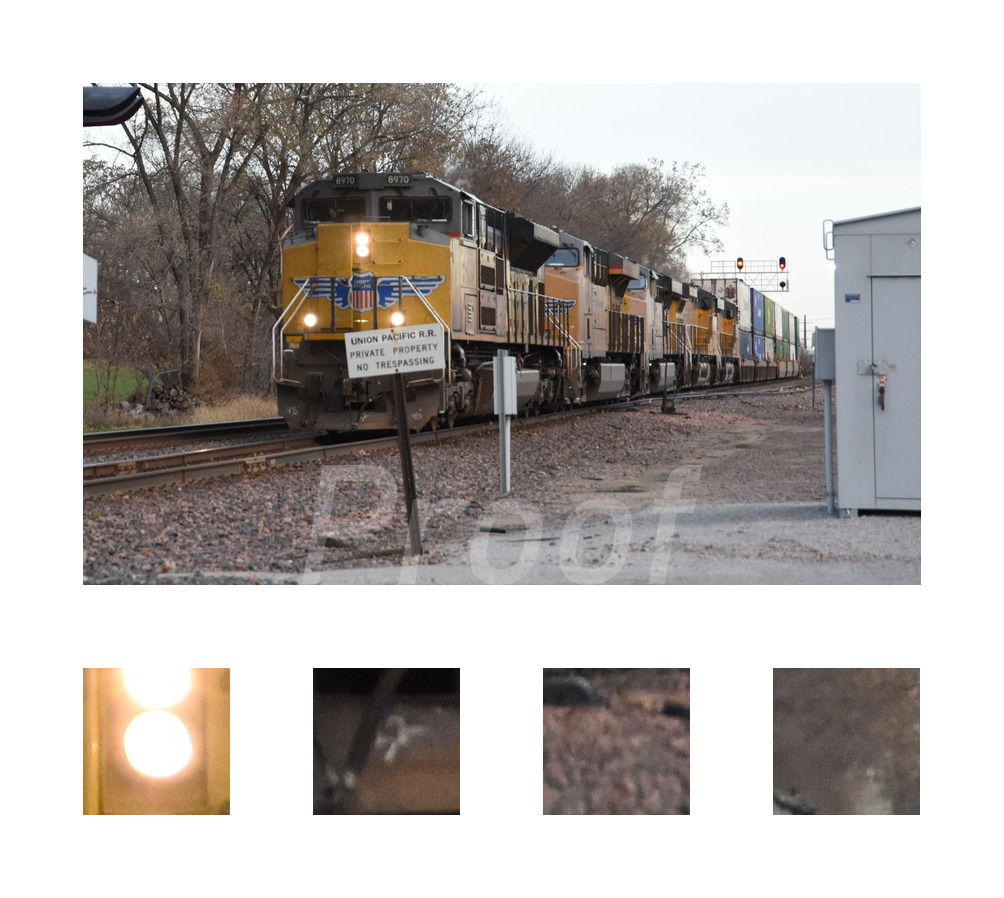
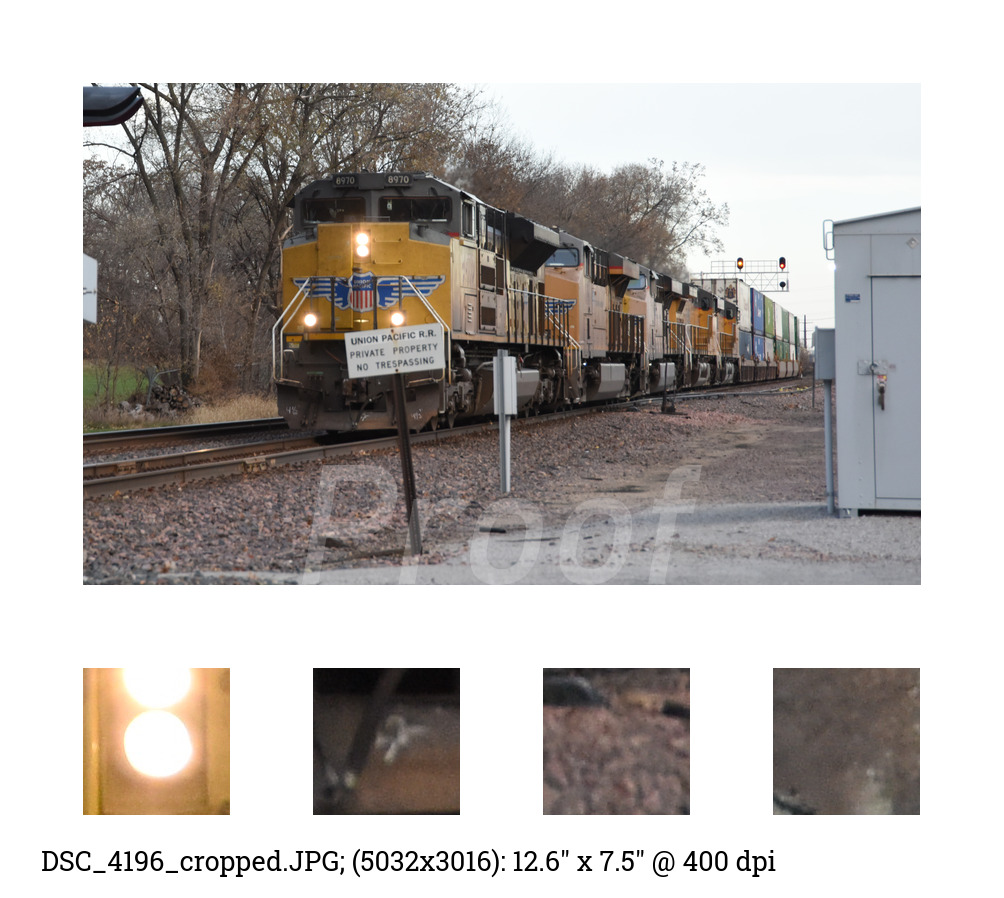
added recommended enlargement

Changed region(s): [[0.0309, 0.9354, 0.7719, 0.9978]]

diff --git a/main.py b/main.py
@@ -1,6 +1,7 @@
+import os
 from wand.image import Image
 from wand.color import Color
-import os
+from wand.drawing import Drawing
 
 SOURCE_DIR = "./source/"
 DEST_DIR = "./dest/"
@@ -16,6 +17,7 @@ print(len(files), files)
 
 for img_path in files:
     with Image(filename=SOURCE_DIR + img_path) as img:
+        # rotate image upright
         try:
             rotate = img.metadata["exif:Orientation"]
             angle = {"6": 90, "8": -90, "3": 180, "5": 90, "7": -90, "4": 180 }.get(rotate[0], 0)
@@ -31,10 +33,29 @@ for img_path in files:
             print("can't rotate")
             angle = 0
             
-        if img.height > img.width:
-                img.rotate(90)
-                angle -= 90
+        # read camera information
+        #print(list(img.metadata))
+        
+        iso = 0
+        
+        if "exif:PhotographicSensitivity" in img.metadata:
+            iso = int("".join(filter(lambda i:i.isnumeric(), img.metadata["exif:PhotographicSensitivity"].split(" ")[0])))
+        
+        dpi = 300 if iso < 1200 else 400
             
+        desc_list = [img_path]
+        
+        desc_list.append("(%dx%d): %.1f\" x %.1f\" @ %d dpi" % (img.width, img.height, img.width / dpi, img.height / dpi, dpi))
+
+        #if iso > 0:
+        #    desc_list.append("ISO: %d" % iso)
+
+        # if it's portrait, put the samples on the right
+        if img.height > img.width:
+            img.rotate(90)
+            angle -= 90
+        
+        # generate size and quantity for preview and samples
         scale = max(img.width, img.height) // LONG_EDGE + 1
         
         scaled_width, scaled_height = img.width // scale, img.height // scale
@@ -46,16 +67,21 @@ for img_path in files:
         
         with Image(width=scaled_width + 2 * MARGIN, height=scaled_height + 3 * MARGIN + sample_size, background=Color('white')) as proof:
             with img.clone() as small_img:
+                # scale, if needed
                 if scale > 1:
                     small_img.resize(scaled_width, scaled_height)
-                    
-                with Image(filename='watermark.png') as watermark:
-                    small_img.composite(watermark, left=(small_img.width - watermark.width) // 2, top=small_img.height - watermark.height, operator='over')
+                
+                # add the watermark
+                if os.path.exists("watermark.png"):
+                    with Image(filename='watermark.png') as watermark:
+                        small_img.composite(watermark, left=(small_img.width - watermark.width) // 2, top=small_img.height - watermark.height, operator='over')
                 
                 proof.composite(small_img, left=MARGIN, top=MARGIN, operator='over')
-               
+            
+            # select samples from original image
             for sample in range(sample_count):
                 with img.clone() as sample_img:
+                    # center samples on rule of thirds
                     sample_x = max(0, (sample // 2 % 2 + 1) * img.width // 3 - sample_size // 2)
                     sample_y = max(0, ((sample + 1) // 2 % 2 + 1) * img.height // 3 - sample_size // 2)
                     
@@ -64,6 +90,12 @@ for img_path in files:
                     proof.composite(sample_img, left=MARGIN + sample * (MARGIN + sample_size), top=2 * MARGIN + scaled_height, operator='over')
                 
             proof.rotate(angle)
+            
+            with Drawing() as draw:
+                draw.font = "RobotoSlab-Regular.ttf"
+                draw.font_size = max(MARGIN // 3, 12)
+                draw.text(MARGIN // 2, proof.height - MARGIN // 3, '; '.join(desc_list))
+                draw(proof)
                                
             proof.save(filename=DEST_DIR + "proof_" + img_path)
         
